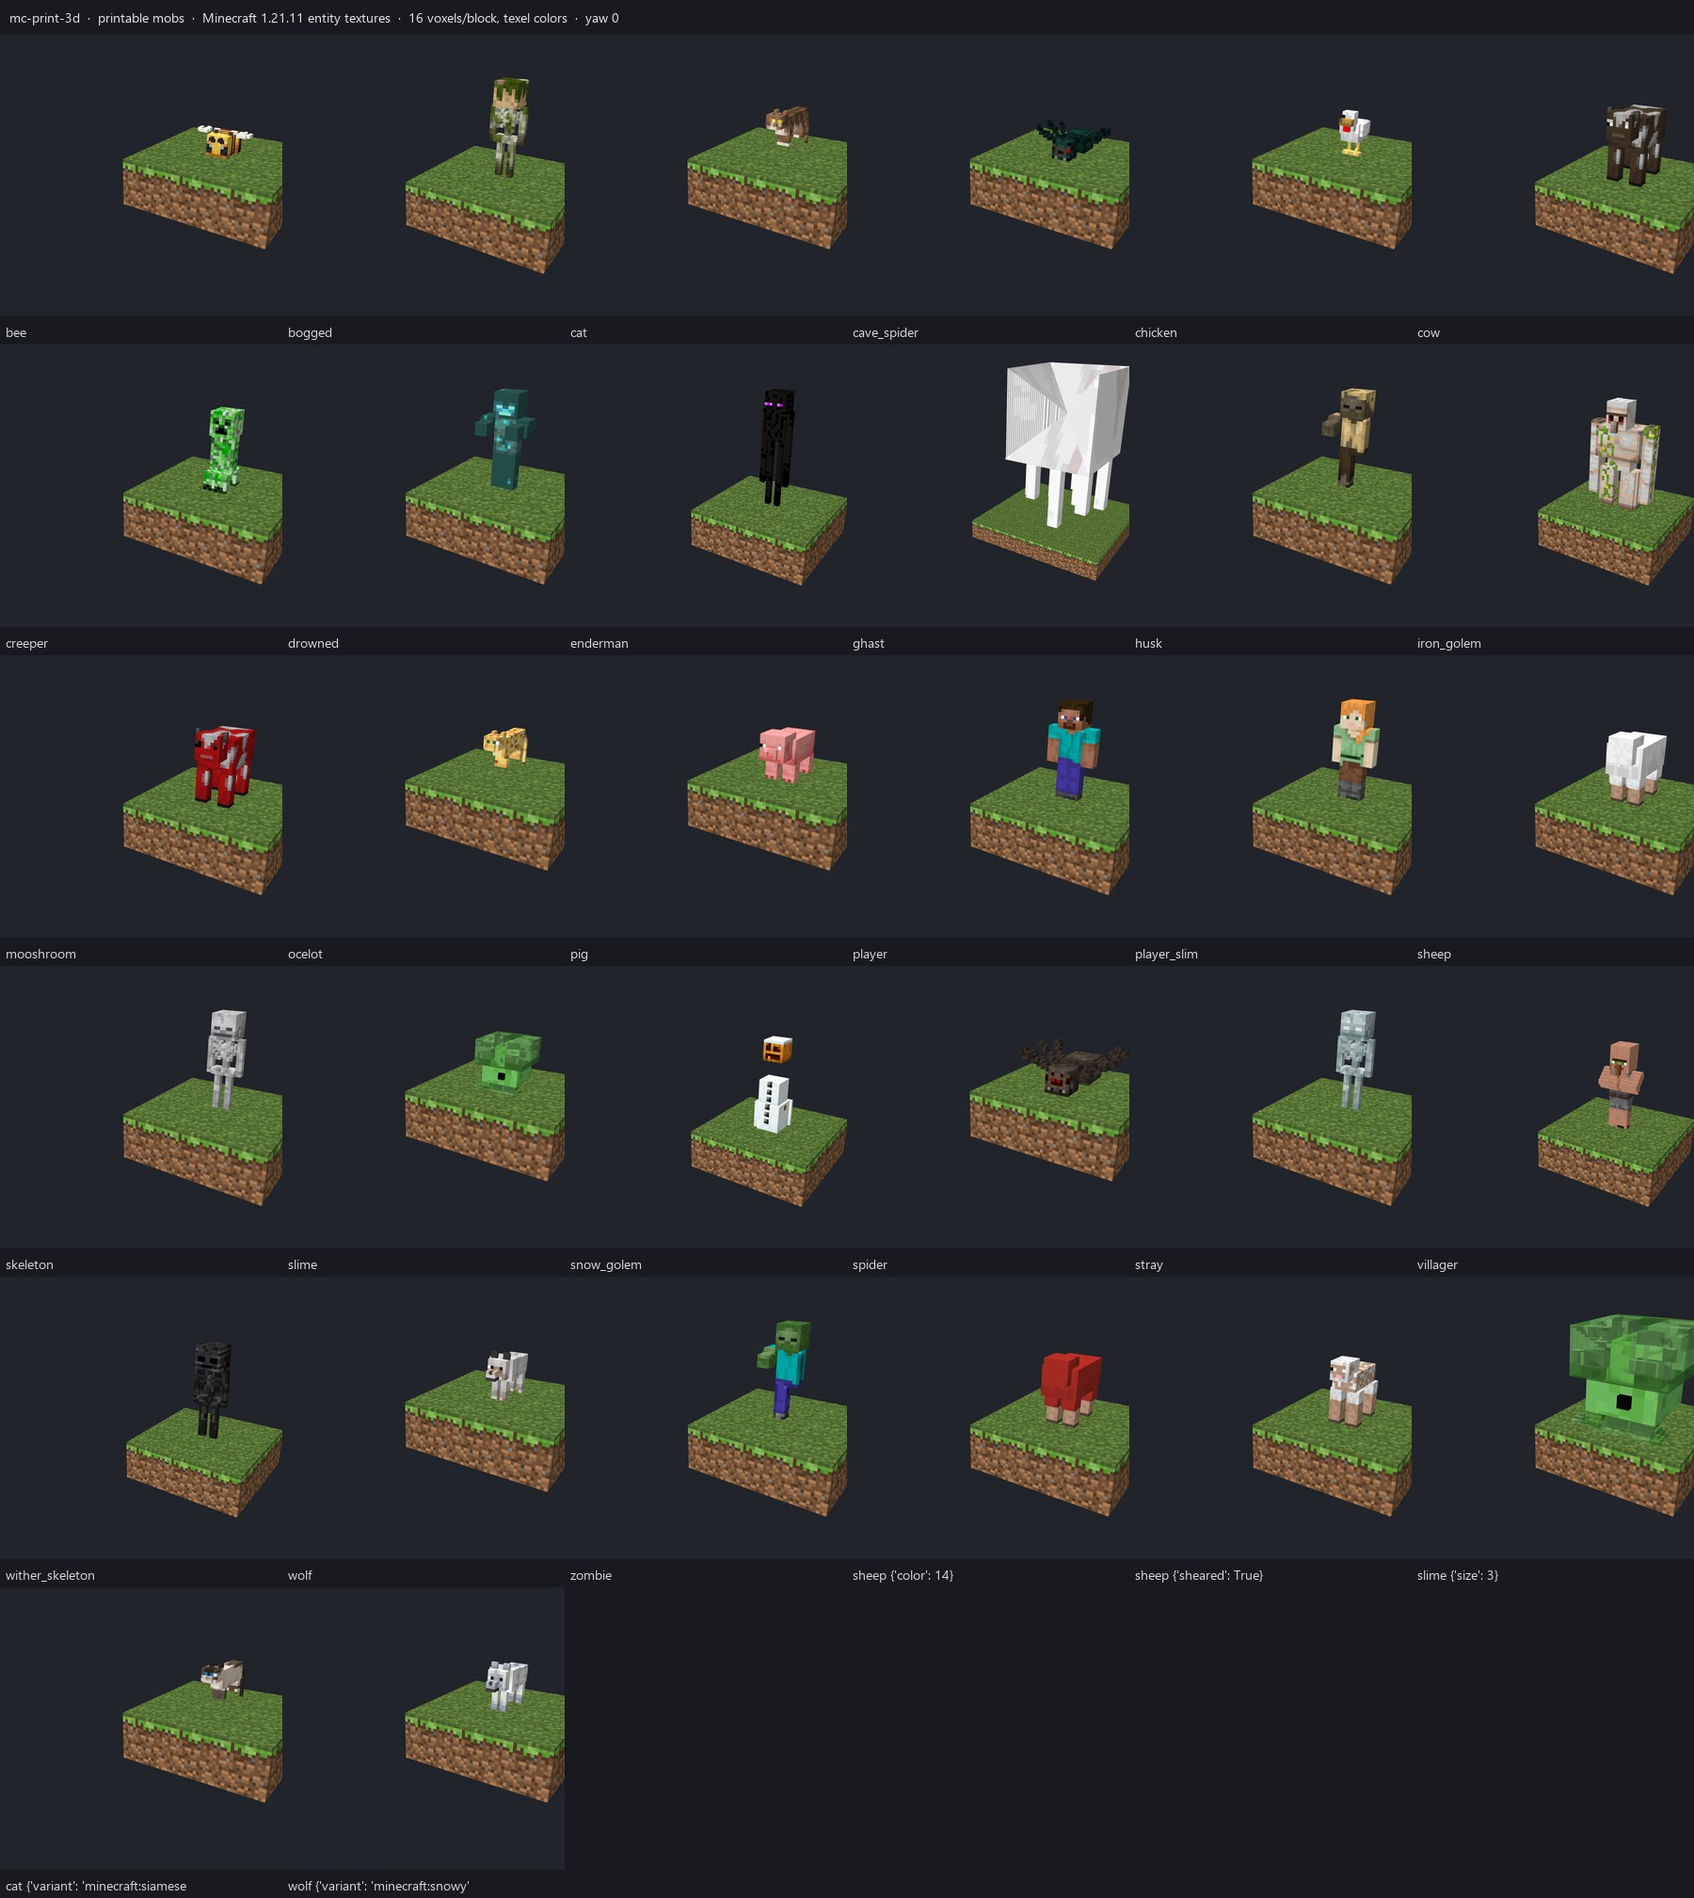
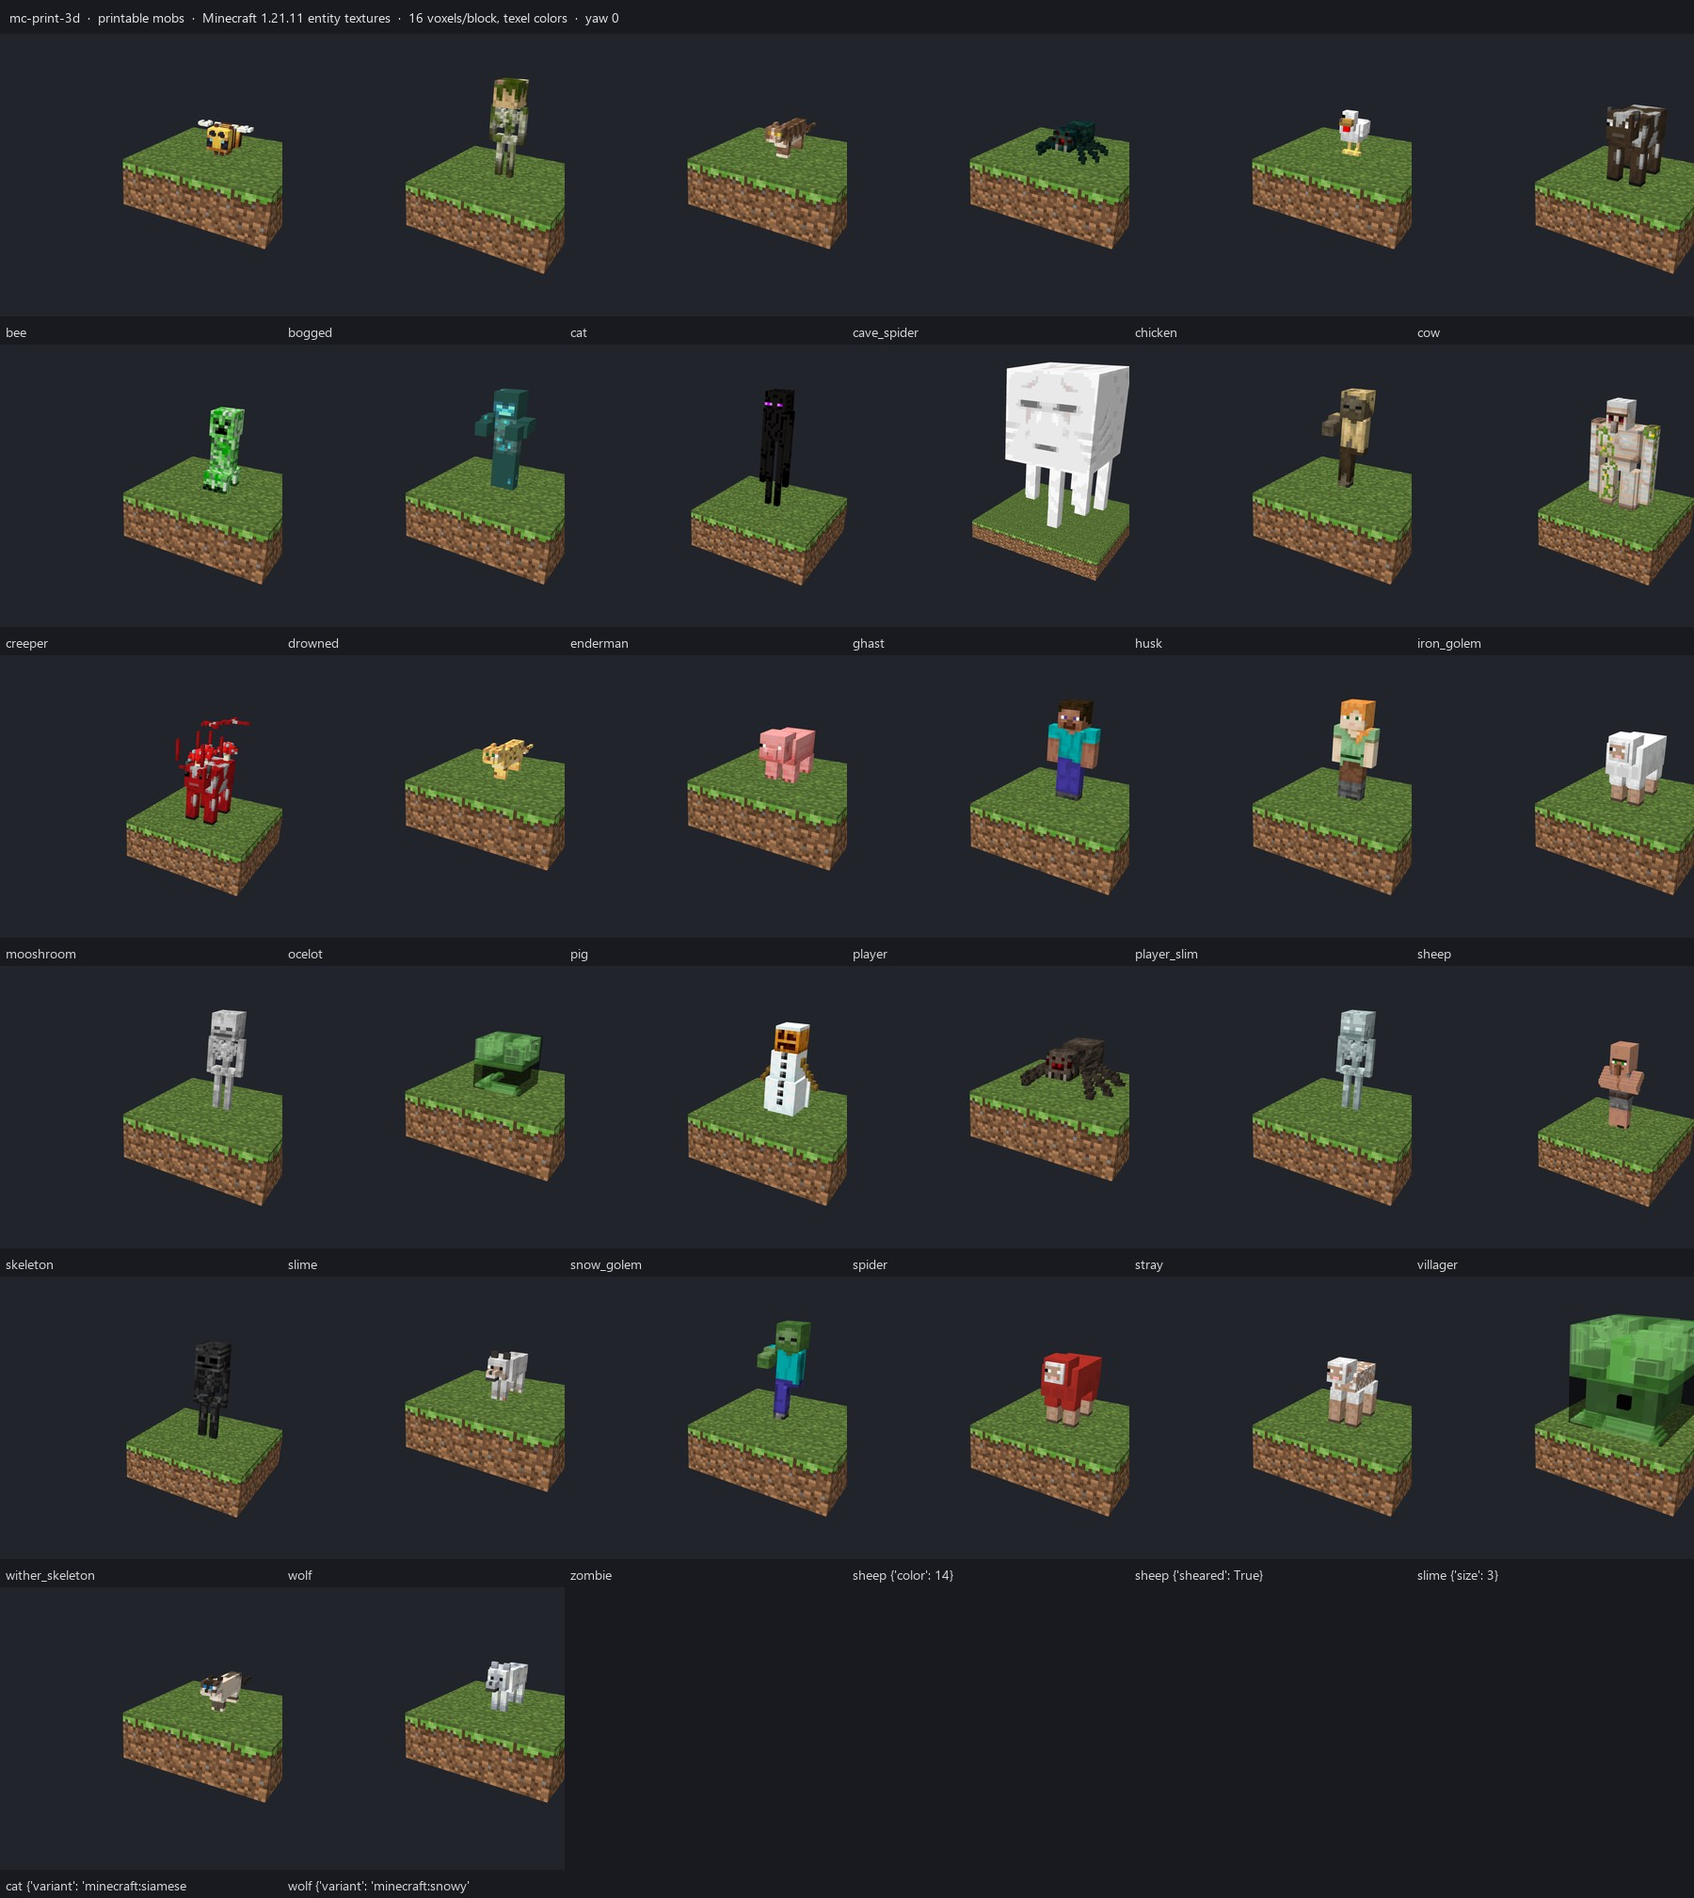
mobs: fix model errors found in review; HD texture scaling; mooshroom mushrooms
- spider / cave spider: leg tilt sign was inverted (legs pointed up)
- snow golem: head box sits on the middle snowball; arm pivots at the sides of the ball (x = +-5, as
  setupAnim does) so the sticks are visible, pointing down and out
- bee: legs are their own parts under the body instead of boxes inside it
- cat / ocelot: tail2 points backwards (xRot 1.73) instead of into the ground, so the cat stands on its feet
- sheep: head box starts at z -6 so the face sticks out of the wool
- slime: translucent outer cube ignores the texture's soft alpha (no holes)
- ghast: models carry the texture size they were authored for; sampling scales by png/declared width
  (ghast.png is 128x64 for a 64x32 layout), which also fixes any HD resource pack
- mooshroom: red mushrooms on the back and head (MushroomCowMushroomLayer positions)
- viewport: translucent pass culls back faces so glass-like parts stay readable
- README: mob detail note; regenerated mob sheet, cottage previews and kit figure renders

diff --git a/mcprint/mobs/models.py b/mcprint/mobs/models.py
@@ -62,6 +62,7 @@ class MobModel:
     texture: str
     parts: list[MobPart]
     scale: float = 1.0                          # renderer scale (ghast 4.5, wither skeleton 1.2...)
+    tex_size: tuple[int, int] = (64, 32)        # texture size the model was authored for (HD packs scale up)
     label: str = ""
     width: float = 1.0                          # hitbox width in blocks (informational)
     height: float = 1.0
@@ -120,7 +121,8 @@ def humanoid(mob_id: str, texture: str, *, layered: bool = True, slim: bool = Fa
         _part("right_leg", [r_leg], (-leg_x, 12, 0)),
         _part("left_leg", [l_leg], (leg_x, 12, 0)),
     ]
-    return MobModel(mob_id, texture, parts, scale=scale, label=label or mob_id.replace("_", " "), width=0.6, height=1.95 * scale)
+    return MobModel(mob_id, texture, parts, scale=scale, tex_size=(64, 64) if layered else (64, 32),
+                    label=label or mob_id.replace("_", " "), width=0.6, height=1.95 * scale)
 
 
 def creeper() -> MobModel:
@@ -155,7 +157,7 @@ def villager() -> MobModel:
         _part("right_leg", [_box(-2, 0, -2, 4, 12, 4, 0, 22)], (-2, 12, 0)),
         _part("left_leg", [_box(-2, 0, -2, 4, 12, 4, 0, 22, mirror=True)], (2, 12, 0)),
     ]
-    return MobModel("villager", "minecraft:entity/villager/villager", parts, label="villager", width=0.6, height=1.95)
+    return MobModel("villager", "minecraft:entity/villager/villager", parts, tex_size=(64, 64), label="villager", width=0.6, height=1.95)
 
 
 def iron_golem() -> MobModel:
@@ -167,7 +169,7 @@ def iron_golem() -> MobModel:
         _part("right_leg", [_box(-3.5, -3, -3, 6, 16, 5, 37, 0)], (-4, 11, 0)),
         _part("left_leg", [_box(-3.5, -3, -3, 6, 16, 5, 60, 0, mirror=True)], (5, 11, 0)),
     ]
-    return MobModel("iron_golem", "minecraft:entity/iron_golem/iron_golem", parts, label="iron golem", width=1.4, height=2.7)
+    return MobModel("iron_golem", "minecraft:entity/iron_golem/iron_golem", parts, tex_size=(128, 128), label="iron golem", width=1.4, height=2.7)
 
 
 def snow_golem() -> MobModel:
@@ -177,25 +179,39 @@ def snow_golem() -> MobModel:
         "up": ("minecraft:block/pumpkin_top", None), "down": ("minecraft:block/pumpkin_top", None),
     }
     parts = [
-        _part("head", [_box(-4, -16, -4, 8, 8, 8, 0, 0, inflate=-0.5), _box(-4, -16, -4, 8, 8, 8, 0, 0, face_textures=pumpkin)], (0, 4, 0)),
+        _part("head", [_box(-4, -8, -4, 8, 8, 8, 0, 0, inflate=-0.5), _box(-4, -8, -4, 8, 8, 8, 0, 0, face_textures=pumpkin)], (0, 4, 0)),
         _part("upper_body", [_box(-5, -10, -5, 10, 10, 10, 0, 16, inflate=-0.5)], (0, 13, 0)),
         _part("lower_body", [_box(-6, -12, -6, 12, 12, 12, 0, 36, inflate=-0.5)], (0, 24, 0)),
-        _part("right_arm", [_box(-1, 0, -1, 12, 2, 2, 32, 0, inflate=-0.5)], (0, 6, 0), (0, 0, 1)),
-        _part("left_arm", [_box(-1, 0, -1, 12, 2, 2, 32, 0, inflate=-0.5)], (0, 6, 0), (0, PI, -1)),
+        # setupAnim moves the arm pivots to the sides of the middle snowball (x = +-5) and tilts the sticks down and out
+        _part("right_arm", [_box(-1, 0, -1, 12, 2, 2, 32, 0, inflate=-0.5)], (5, 6, 0), (0, 0, 1)),
+        _part("left_arm", [_box(-1, 0, -1, 12, 2, 2, 32, 0, inflate=-0.5)], (-5, 6, 0), (0, PI, -1)),
     ]
-    return MobModel("snow_golem", "minecraft:entity/snow_golem", parts, label="snow golem", width=0.7, height=1.9)
+    return MobModel("snow_golem", "minecraft:entity/snow_golem", parts, tex_size=(64, 64), label="snow golem", width=0.7, height=1.9)
 
 
 # ======================================================================================
 # quadrupeds
 # ======================================================================================
-def _quadruped(mob_id, texture, head_boxes, head_off, body_boxes, body_off, leg_box, leg_offs, extra=(), label="", width=0.9, height=0.9, scale=1.0):
+def _quadruped(mob_id, texture, head_boxes, head_off, body_boxes, body_off, leg_box, leg_offs, extra=(), label="", width=0.9, height=0.9, scale=1.0,
+               tex_size=(64, 32)):
     parts = [_part("head", head_boxes, head_off), _part("body", body_boxes, body_off, (HALF_PI, 0, 0))]
     names = ["right_hind_leg", "left_hind_leg", "right_front_leg", "left_front_leg"]
     for n, off in zip(names, leg_offs):
         parts.append(_part(n, [replace(leg_box)], off))
     parts.extend(extra)
-    return MobModel(mob_id, texture, parts, scale=scale, label=label or mob_id.replace("_", " "), width=width, height=height)
+    return MobModel(mob_id, texture, parts, scale=scale, tex_size=tex_size, label=label or mob_id.replace("_", " "), width=width, height=height)
+
+
+_RED_MUSHROOM = {"north": ("minecraft:block/red_mushroom", None), "south": ("minecraft:block/red_mushroom", None)}
+
+
+def _mushroom(name: str, offset, yaw_deg: float, parent: Optional[str] = None) -> list:
+    """A red mushroom block (two crossed cut-out planes, 16 units tall) centred at ``offset`` in model space."""
+    out = []
+    for suffix, extra in (("a", 45.0), ("b", -45.0)):
+        out.append(_part(name + suffix, [_box(-8, -8, -0.5, 16, 16, 1, 0, 0, face_textures=_RED_MUSHROOM)], offset,
+                         (0, math.radians(yaw_deg + extra), 0), parent))
+    return out
 
 
 def pig(texture: str = "minecraft:entity/pig/temperate_pig") -> MobModel:
@@ -203,21 +219,27 @@ def pig(texture: str = "minecraft:entity/pig/temperate_pig") -> MobModel:
                       [_box(-4, -4, -8, 8, 8, 8, 0, 0), _box(-2, 0, -9, 4, 3, 1, 16, 16)], (0, 12, -6),
                       [_box(-5, -10, -7, 10, 16, 8, 28, 8)], (0, 11, 2),
                       _box(-2, 0, -2, 4, 6, 4, 0, 16), [(-3, 18, 7), (3, 18, 7), (-3, 18, -5), (3, 18, -5)],
-                      label="pig", width=0.9, height=0.9)
+                      label="pig", width=0.9, height=0.9, tex_size=(64, 64))
 
 
 def cow(texture: str = "minecraft:entity/cow/temperate_cow", mob_id: str = "cow") -> MobModel:
+    extra = []
+    if mob_id == "mooshroom":
+        # MushroomCowMushroomLayer: two mushrooms on the back, one on the head (block-space offsets -> units)
+        extra += _mushroom("back_mushroom_1", (3.2, -5.6, 8.0), -48.0)
+        extra += _mushroom("back_mushroom_2", (-2.1, -5.6, -0.2), -6.0)
+        extra += _mushroom("head_mushroom", (0.0, -11.2, -3.2), -78.0, parent="head")
     return _quadruped(mob_id, texture,
                       [_box(-4, -4, -6, 8, 8, 6, 0, 0), _box(-5, -5, -4, 1, 3, 1, 22, 0), _box(4, -5, -4, 1, 3, 1, 22, 0)], (0, 4, -8),
                       [_box(-6, -10, -7, 12, 18, 10, 18, 4), _box(-2, 2, -8, 4, 6, 1, 52, 0)], (0, 5, 2),
                       _box(-2, 0, -2, 4, 12, 4, 0, 16), [(-4, 12, 7), (4, 12, 7), (-4, 12, -6), (4, 12, -6)],
-                      label=mob_id, width=0.9, height=1.4)
+                      extra=extra, label=mob_id, width=0.9, height=1.4, tex_size=(64, 64))
 
 
 def sheep(color: str = "white", sheared: bool = False) -> MobModel:
     wool = "minecraft:entity/sheep/sheep_wool"
     tint = DYE_RGB.get(color, DYE_RGB["white"])
-    head = [_box(-3, -4, -4, 6, 6, 8, 0, 0)]
+    head = [_box(-3, -4, -6, 6, 6, 8, 0, 0)]
     body = [_box(-4, -10, -7, 8, 16, 6, 28, 8)]
     leg = _box(-2, 0, -2, 4, 12, 4, 0, 16)
     if not sheared:
@@ -270,7 +292,7 @@ def cat(texture: str = "minecraft:entity/cat/tabby", mob_id: str = "cat") -> Mob
         _part("left_front_leg", [_box(-1, 0, 0, 2, 10, 2, 40, 0)], (1.2, 14.1, -5)),
         _part("right_front_leg", [_box(-1, 0, 0, 2, 10, 2, 40, 0)], (-1.2, 14.1, -5)),
         _part("tail1", [_box(-0.5, 0, 0, 1, 8, 1, 0, 15)], (0.5, 15, 8), (0.9, 0, 0)),
-        _part("tail2", [_box(-0.5, 0, 0, 1, 8, 1, 4, 15)], (0.5, 20, 14)),
+        _part("tail2", [_box(-0.5, 0, 0, 1, 8, 1, 4, 15)], (0.5, 20, 14), (1.7278761, 0, 0)),
     ]
     return MobModel(mob_id, texture, parts, label=mob_id, width=0.6, height=0.7)
 
@@ -293,7 +315,7 @@ def spider(texture: str = "minecraft:entity/spider/spider", mob_id: str = "spide
     ]
     for name, side, z, k, yrot in legs:
         box = _box(-15, -1, -1, 16, 2, 2, 18, 0) if side < 0 else _box(-1, -1, -1, 16, 2, 2, 18, 0, mirror=True)
-        parts.append(_part(name, [box], (4 * side, 15, z), (0, yrot, -f * k * side)))
+        parts.append(_part(name, [box], (4 * side, 15, z), (0, yrot, f * k * side)))
     return MobModel(mob_id, texture, parts, scale=scale, label=mob_id.replace("_", " "), width=1.4 * scale, height=0.9 * scale)
 
 
@@ -319,13 +341,15 @@ def ghast() -> MobModel:
 
 def bee() -> MobModel:
     parts = [
-        _part("bone", [_box(-3.5, -4, -5, 7, 7, 10, 0, 0), _box(0, -1, 5, 0, 1, 2, 26, 7),
-                       _box(-5, 0, 0, 7, 2, 0, 26, 1), _box(-5, 0, 2, 7, 2, 0, 26, 3), _box(-5, 0, 4, 7, 2, 0, 26, 5)], (0, 19, 0)),
+        _part("bone", [_box(-3.5, -4, -5, 7, 7, 10, 0, 0), _box(0, -1, 5, 0, 1, 2, 26, 7)], (0, 19, 0)),
+        _part("front_legs", [_box(-5, 0, 0, 7, 2, 0, 26, 1)], (1.5, 3, -2), parent="bone"),
+        _part("middle_legs", [_box(-5, 0, 0, 7, 2, 0, 26, 3)], (1.5, 3, 0), parent="bone"),
+        _part("back_legs", [_box(-5, 0, 0, 7, 2, 0, 26, 5)], (1.5, 3, 2), parent="bone"),
         _part("antennae", [_box(1.5, -2, -3, 1, 2, 3, 2, 0), _box(-2.5, -2, -3, 1, 2, 3, 2, 3)], (0, -2, -5), parent="bone"),
         _part("right_wing", [_box(-9, 0, 0, 9, 0, 6, 0, 18)], (-1.5, -4, -3), (0, -0.2618, 0), parent="bone"),
         _part("left_wing", [_box(0, 0, 0, 9, 0, 6, 0, 18, mirror=True)], (1.5, -4, -3), (0, 0.2618, 0), parent="bone"),
     ]
-    return MobModel("bee", "minecraft:entity/bee/bee", parts, label="bee", width=0.7, height=0.6)
+    return MobModel("bee", "minecraft:entity/bee/bee", parts, tex_size=(64, 64), label="bee", width=0.7, height=0.6)
 
 
 # ======================================================================================

diff --git a/mcprint/mobs/raster.py b/mcprint/mobs/raster.py
@@ -128,9 +128,10 @@ def _face_fractions(face: str, p: np.ndarray, lo0: np.ndarray, hi0: np.ndarray) 
     return np.clip(fu, 0.0, 0.999999), np.clip(fv, 0.0, 0.999999)
 
 
-def _sample(tex: np.ndarray, rect: tuple[float, float, float, float], fu: np.ndarray, fv: np.ndarray) -> np.ndarray:
+def _sample(tex: np.ndarray, rect: tuple[float, float, float, float], fu: np.ndarray, fv: np.ndarray, scale: float = 1.0) -> np.ndarray:
+    """Texels under ``rect`` (in the model's declared texture pixels; ``scale`` = actual / declared width for HD textures)."""
     H, W = tex.shape[:2]
-    u0, v0, rw, rh = rect
+    u0, v0, rw, rh = (v * scale for v in rect)
     px = np.clip(np.floor(u0 + fu * rw).astype(np.int64), 0, W - 1)
     py = np.clip(np.floor(v0 + fv * rh).astype(np.int64), 0, H - 1)
     return tex[py, px]
@@ -246,11 +247,12 @@ class MobVoxelizer:
                 if tex is None:
                     rgb[sel] = (150, 150, 150)
                     continue
-                px = _sample(tex, rects[face], fu, fv)
+                px = _sample(tex, rects[face], fu, fv, tex.shape[1] / model.tex_size[0])
                 col = px[:, :3].astype(np.uint8)
-                ok = px[:, 3] >= self.alpha
+                # translucent parts (slime) are printed solid in clear filament: their soft alpha is not a cut-out
+                ok = px[:, 3] >= self.alpha if not box.translucent else np.ones(len(fu), dtype=bool)
                 if orects is not None and otex is not None:
-                    op = _sample(otex, orects[face], fu, fv)
+                    op = _sample(otex, orects[face], fu, fv, otex.shape[1] / model.tex_size[0])
                     over = op[:, 3] >= self.alpha
                     col = np.where(over[:, None], op[:, :3], col).astype(np.uint8)
                     ok |= over

diff --git a/mcprint/gui/viewport.py b/mcprint/gui/viewport.py
@@ -380,7 +380,10 @@ class MeshViewport(QOpenGLWidget):
                 gl.glEnable(GL_BLEND)
                 gl.glBlendFunc(GL_SRC_ALPHA, GL_ONE_MINUS_SRC_ALPHA)
                 gl.glDepthMask(False)
+                gl.glEnable(GL_CULL_FACE)       # only the near faces of glass-like parts: the inside stays readable
+                gl.glCullFace(GL_BACK)
                 gl.glDrawArrays(GL_TRIANGLES, self._opaque_count, self._count - self._opaque_count)
+                gl.glDisable(GL_CULL_FACE)
                 gl.glDepthMask(True)
                 gl.glDisable(GL_BLEND)
             if self.wireframe:

diff --git a/README.md b/README.md
@@ -135,6 +135,7 @@ Mobs are built the way the game builds them: every `ModelPart` box with its `tex
 - **From the schematic.** Entities are read from Sponge v2/v3, Litematica regions, structure files, MCEdit (`WEOrigin` aware) and `.mcstructure`. Position, yaw, sheep `Color`/`Sheared`, slime `Size` and `variant` tags are used; unsupported entity types (item frames, minecarts, mobs without a model yet) are listed as warnings.
 - **Placed by hand.** `--mob ID@X,Y,Z[,YAW]` in block coordinates (feet centre, relative to the schematic), repeatable; `sheep:red@…`, `slime:3@…`, `pig:cold@…`, `wolf:snowy@…`, `cat:siamese@…` pick variants; `--skin steve.png` uses your own 64×64 skin for `player` / `player_slim`; `--mob-scale 2` makes every mob twice the size; `--no-mobs` ignores schematic entities. The app has the same controls on the Schematic tab.
 - **Kit mode.** A mob is one piece: all of its cells as a single body on a base tile with a socket under every ground cell (no studs on a head). Figures print in their dominant color; use the solid build for full-color mobs.
+- **Detail.** Mobs share the block resolution (16 sub-voxels per block by default), so a 4-unit-wide arm is 4 voxels wide and tilted parts (villager arms, spider legs, wolf tail) come out stair-stepped like any diagonal in a voxel model. Set *resolution* to 32 in the Model tab or pass `--resolution 32` for finer figures at the cost of larger meshes.
 
 ```bash
 python -m mcprint mobs                                                    # list ids, sizes, textures
